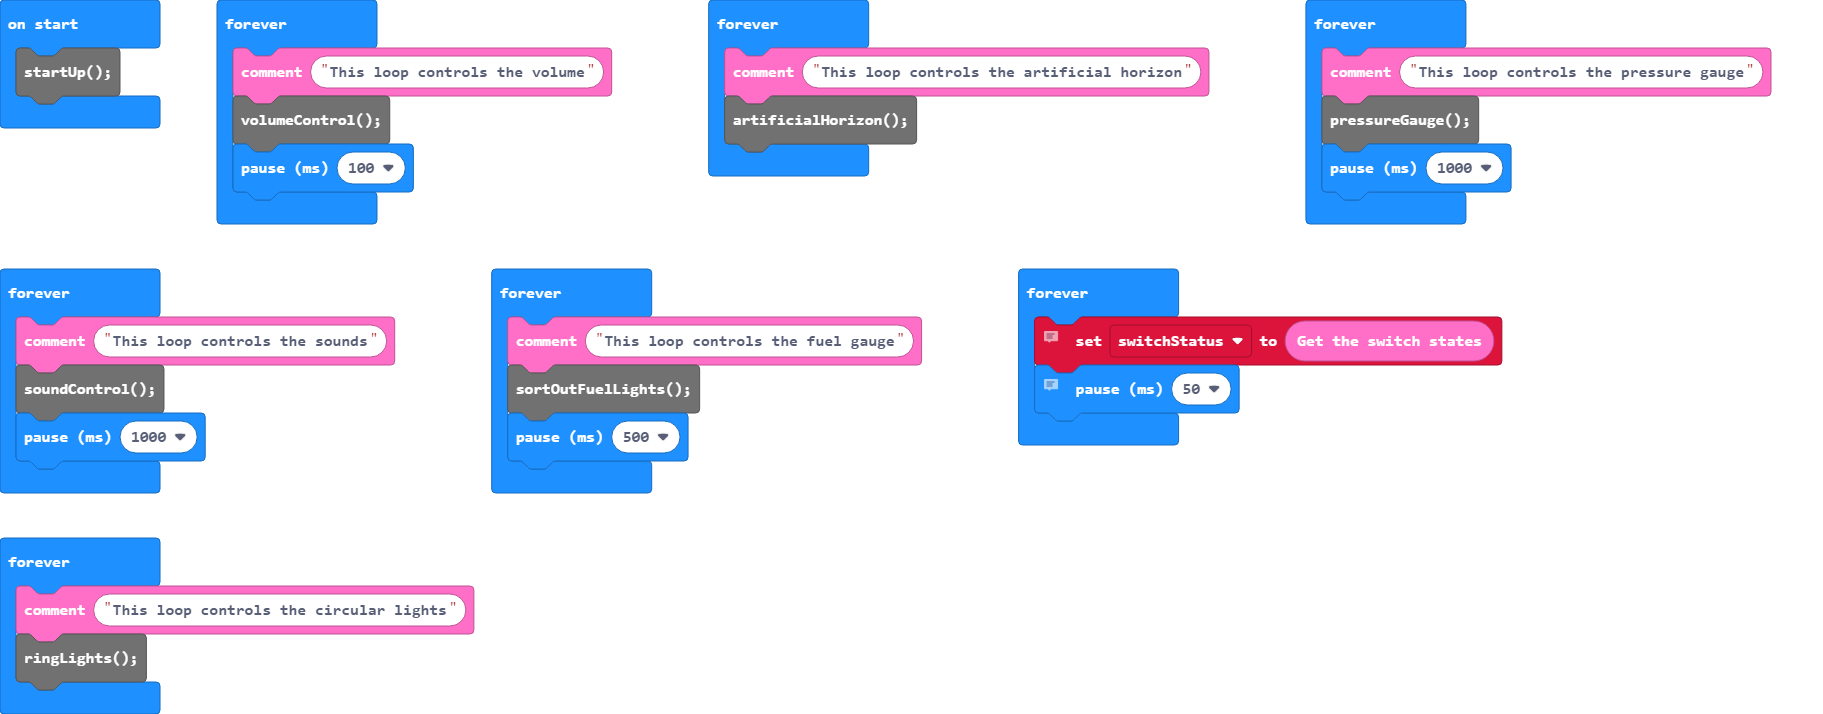
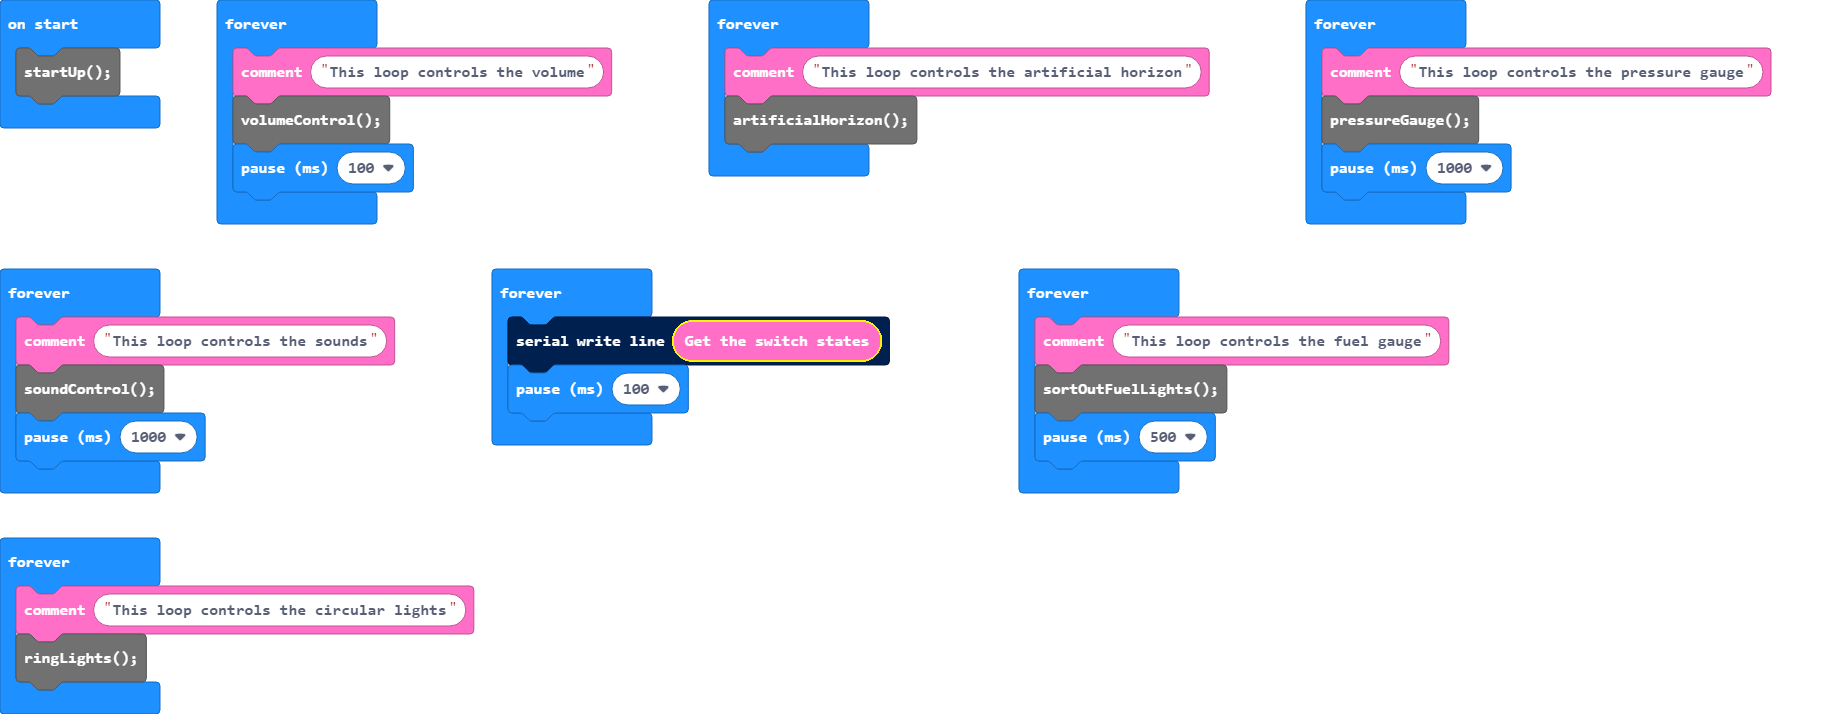
Update pxt.json, main.blocks, main.ts, ringLights.ts, sounds.ts, fuelLights-IOT.ts, buttons.ts, start.ts, soundtrack.md

Changed region(s): [[0.5529, 0.4006, 0.8294, 0.7087], [0.2457, 0.4006, 0.5222, 0.7087], [0.3993, 0.0308, 0.4301, 0.0616]]

diff --git a/ringLights.ts b/ringLights.ts
@@ -10,9 +10,7 @@ function ringLights() {
 
     if (strip == null) {
 
-        //serial.writeLine("ring light 1")
-
-        RainbowSparkleUnicorn.comment("Setup starting rainbow and green lights")
+        RainbowSparkleUnicorn.comment("Setup starting rainbow")
         strip = neopixel.create(DigitalPin.P1, 24, NeoPixelMode.RGB)
         alertStripRight = strip.range(0, 6)
         alertStripLeft = strip.range(12, 6)
@@ -20,74 +18,29 @@ function ringLights() {
 
         alertStripRight.showRainbow();
         alertStripLeft.showRainbow();
-
-        //serial.writeLine("ring light 2")
-
-        let time_now = control.millis()
-
-        while (control.millis() < time_now + 15 * 1000) {
-
-            //serial.writeLine("ring light 3")
-
-            alertStripLeft.rotate(-1);
-            alertStripRight.rotate(1);
-            strip.show();
-            basic.pause(250);
-        }
-
-        //serial.writeLine("ring light 4")
-
-        strip.showColor(neopixel.colors(NeoPixelColors.Green))
-
-        strip.show()
     }
 
-    RainbowSparkleUnicorn.comment("Need to check for a transition, so we can set up the lights")
+    alertStripLeft.rotate(1);
+    alertStripRight.rotate(1);
+    strip.show();
 
-    if (stateInCircularLightLoop != consoleState) {
-        circularLightLoopPauseMs = 10
-        if (consoleState == "Normal") {
-            strip.setBrightness(30)
-            strip.showColor(neopixel.colors(NeoPixelColors.Green))
-            strip.show()
-        } else if (consoleState == "VideoPlaying") {
-            strip.setBrightness(100)
-            strip.showColor(neopixel.colors(NeoPixelColors.Indigo))
-            strip.show()
-        } else if (consoleState == "YellowAlert") {
-            strip.showColor(neopixel.colors(NeoPixelColors.Black))
-            alertStripRight.setBrightness(100)
-            alertStripLeft.setBrightness(100)
-            alertStripRight.showColor(neopixel.colors(NeoPixelColors.Yellow))
-            alertStripLeft.showColor(neopixel.colors(NeoPixelColors.Yellow))
-        } else if (consoleState == "RedAlert") {
-            strip.showColor(neopixel.colors(NeoPixelColors.Black))
-            alertStripRight.setBrightness(255)
-            alertStripRight.showColor(neopixel.colors(NeoPixelColors.Red))
-            alertStripLeft.showColor(neopixel.colors(NeoPixelColors.Red))
-        }
-    } else {
-        if (stateInCircularLightLoop == "Starting") {
-            RainbowSparkleUnicorn.comment("Do nothing as green light setup in transition")
-        } else if (stateInCircularLightLoop == "Normal") {
-            RainbowSparkleUnicorn.comment("Do nothing as green light setup in transition")
-        } else if (stateInCircularLightLoop == "VideoPlaying") {
-            RainbowSparkleUnicorn.comment("Do nothing as video playing light setup in transition")
-        } else if (stateInCircularLightLoop == "YellowAlert") {
-            RainbowSparkleUnicorn.comment("Just spin the light and change loop speed by altering pause time")
-            strip.rotate(1)
-            strip.show()
-            circularLightLoopPauseMs = 50
-        } else if (stateInCircularLightLoop == "RedAlert") {
-            RainbowSparkleUnicorn.comment("Just spin the light and change loop speed by altering pause time")
-            strip.rotate(1)
-            strip.show()
-            circularLightLoopPauseMs = 20
-        }
-    }
-    RainbowSparkleUnicorn.comment("set the loop state to be the same as the console state as we have done the transition")
-    stateInCircularLightLoop = consoleState
-    RainbowSparkleUnicorn.comment("pause for how long...")
-    basic.pause(circularLightLoopPauseMs)
+    let shields = pins.analogReadPin(AnalogPin.P2);
+    //let sheildsMap = Math.round(Math.map(shields, 20, 985, 50, 1000));
 
+    //serial.writeValue("shields", shields);
+    //serial.writeValue("sheildsMap", sheildsMap);
+
+    basic.pause(shields);
+
+    //basic.pause(250);
+}
+
+function setColour(rgb: number) {
+
+    alertStripLeft.showColor(rgb)
+    alertStripRight.showColor(rgb)
+    alertStripLeft.setPixelColor(0, NeoPixelColors.Black)
+    alertStripRight.setPixelColor(0, NeoPixelColors.Black)
+    alertStripLeft.setPixelColor(1, NeoPixelColors.Black)
+    alertStripRight.setPixelColor(1, NeoPixelColors.Black)
 }

diff --git a/buttons.ts b/buttons.ts
@@ -1,48 +1,51 @@
 
-let switchStatus = ""
-let touchStatus = ""
-
-// RainbowSparkleUnicorn.IoT.sendMQTTMessage("spaceship-console/buttons", "Green Button")
-RainbowSparkleUnicorn.Switch.onSwitchPressed(switchPins.P10, function () {
-    basic.showNumber(10)
-})
-
-// RainbowSparkleUnicorn.IoT.sendMQTTMessage("spaceship-console/alert", "Red Alert")
-RainbowSparkleUnicorn.Switch.onSwitchPressed(switchPins.P1, function () {
-    consoleState = "RedAlert"
-    basic.showNumber(1)
-})
-
-// RainbowSparkleUnicorn.IoT.sendMQTTMessage("spaceship-console/buttons", "Blue Button")
-RainbowSparkleUnicorn.Switch.onSwitchPressed(switchPins.P11, function () {
-    basic.showNumber(11)
-})
-
-RainbowSparkleUnicorn.Switch.onSwitchPressed(switchPins.P13, function () {
-    basic.showNumber(13)
-    sortOutFuelLights()
-})
-
-// RainbowSparkleUnicorn.IoT.sendMQTTMessage("spaceship-console/alert", "Normal")
 RainbowSparkleUnicorn.Switch.onSwitchPressed(switchPins.P0, function () {
     RainbowSparkleUnicorn.comment("Press red spinner to warp back to green")
-    consoleState = "Normal"
-    basic.showNumber(0)
+    alertStripLeft.showRainbow()
+    alertStripRight.showRainbow()
+    RainbowSparkleUnicorn.Sound.playTrack(21)
 })
 
-RainbowSparkleUnicorn.Switch.onSwitchPressed(switchPins.P8, function () {
-    sortOutFuelLights()
+RainbowSparkleUnicorn.Switch.onSwitchPressed(switchPins.P1, function () {
+    consoleState = "RedAlert"
+    RainbowSparkleUnicorn.Sound.playTrack(99)
+    setColour(neopixel.colors(NeoPixelColors.Red));
+})
+
+RainbowSparkleUnicorn.Switch.onSwitchPressed(switchPins.P2, function () {
+        setColour(neopixel.colors(NeoPixelColors.Orange));
+        basic.showNumber(2)
 })
 
 
-// RainbowSparkleUnicorn.IoT.sendMQTTMessage("spaceship-console/alert", "Yellow Alert")
 RainbowSparkleUnicorn.Switch.onSwitchPressed(switchPins.P3, function () {
     RainbowSparkleUnicorn.comment("Press white spinner to warp back to yellow")
-    consoleState = "YellowAlert"
-    basic.showNumber(3)
 })
 
-// RainbowSparkleUnicorn.IoT.sendMQTTMessage("spaceship-console/buttons", "Red Button")
-RainbowSparkleUnicorn.Switch.onSwitchPressed(switchPins.P9, function () {
-    basic.showNumber(9)
+RainbowSparkleUnicorn.Switch.onSwitchPressed(switchPins.P10, function () {
+    RainbowSparkleUnicorn.Sound.playTrack(20)
+    setColour(neopixel.colors(NeoPixelColors.Green));
+    consoleState = "Normal"
 })
+
+
+
+RainbowSparkleUnicorn.Switch.onSwitchPressed(switchPins.P11, function () {
+    RainbowSparkleUnicorn.Sound.playTrack(21)
+    setColour(neopixel.colors(NeoPixelColors.Blue));
+})
+
+
+
+
+
+
+RainbowSparkleUnicorn.Switch.onSwitchPressed(switchPins.P9, function () {
+    RainbowSparkleUnicorn.Sound.playTrack(70)
+
+})
+
+
+// RainbowSparkleUnicorn.Switch.onSwitchPressed(switchPins.Any, function () {
+//     basic.showNumber(control.eventValue());
+// })

diff --git a/sounds.ts b/sounds.ts
@@ -1,48 +1,10 @@
 // Add your code here
 
-let stateInCircularSoundLoop = ""
-
 function soundControl() {
 
-    //serial.writeLine("stateInCircularSoundLoop:" + stateInCircularSoundLoop + " consoleState:" + consoleState)
-
-    if (stateInCircularSoundLoop != consoleState) {
-        if (consoleState == "Normal") {
-            RainbowSparkleUnicorn.Sound.playTrack(2)
-        } else if (consoleState == "VideoPlaying") {
-            RainbowSparkleUnicorn.Sound.pause()
-        } else if (consoleState == "YellowAlert") {
-            RainbowSparkleUnicorn.Sound.playTrack(3)
-        } else if (consoleState == "RedAlert") {
-            RainbowSparkleUnicorn.Sound.playTrack(4)
-        } else if (consoleState == "Starting") {
-            RainbowSparkleUnicorn.comment("Opening sequence sound")
-            RainbowSparkleUnicorn.Sound.playTrack(1)
-
-            while (true){
-                basic.pause(500);
-                if (RainbowSparkleUnicorn.Sound.playingSound() == false) {
-                    break;
-                }                
-            }
-        }
-    } else {
-        if (stateInCircularSoundLoop == "Starting") {
-            RainbowSparkleUnicorn.comment("Do nothing")
-        } else if (stateInCircularSoundLoop == "Normal") {
-            RainbowSparkleUnicorn.comment("Do nothing")
-        } else if (stateInCircularSoundLoop == "VideoPlaying") {
-            RainbowSparkleUnicorn.comment("Do nothing")
-        } else if (stateInCircularSoundLoop == "YellowAlert") {
-            RainbowSparkleUnicorn.comment("Do nothing")
-        } else if (stateInCircularSoundLoop == "RedAlert") {
-            RainbowSparkleUnicorn.comment("Check to see if the track is playing, once stopped then reduce to yellow alert")
-            if (RainbowSparkleUnicorn.Sound.playingSound() == false) {
-                consoleState = "YellowAlert"
-            }
-        }
+    if (RainbowSparkleUnicorn.Sound.playingSound() == false) {
+        RainbowSparkleUnicorn.Sound.playTrack(Math.randomRange(50, 52));
+        basic.pause(500);
     }
-    RainbowSparkleUnicorn.comment("set the loop state to be the same as the console state as we have done the transition")
-    stateInCircularSoundLoop = consoleState
-
 }
+

diff --git a/fuelLights-IOT.ts b/fuelLights-IOT.ts
@@ -2,37 +2,24 @@
 let IoTConnected = false
 
 function sortOutFuelLights() {
-    
-    if (IoTConnected == true) {
-        // basic.clearScreen()
-        RainbowSparkleUnicorn.Light.turnOff(lightPins.P13)
-        RainbowSparkleUnicorn.Light.turnOff(lightPins.P14)
-        if (RainbowSparkleUnicorn.Switch.getSwitchState(switchPins.P8) == "H") {
-            RainbowSparkleUnicorn.Light.turnOn(lightPins.P13)
-        }
-        if (RainbowSparkleUnicorn.Switch.getSwitchState(switchPins.P13) == "H") {
-            RainbowSparkleUnicorn.Light.turnOn(lightPins.P14)
-        }
-    } else {
 
-        // Pink Right Light
-        RainbowSparkleUnicorn.Light.turnOff(lightPins.P13)
-        RainbowSparkleUnicorn.Light.blink(lightPins.P13, 500, 500)
-        // Pink Left Light
-        RainbowSparkleUnicorn.Light.turnOff(lightPins.P14)
-        RainbowSparkleUnicorn.Light.blink(lightPins.P14, 500, 500)
-        // RainbowSparkleUnicorn.IoT.connectToInterWeb(
-        // "152 2.4GHz",
-        // "derwenthorpe",
-        // "robotmqtt",
-        // "public",
-        // "public",
-        // "Spaceship Console"
-        // )
-        // RainbowSparkleUnicorn.IoT.startReceivingMessages("spaceship-console/rx")
-        IoTConnected = true
-        RainbowSparkleUnicorn.Light.turnOff(lightPins.P13)
-        RainbowSparkleUnicorn.Light.turnOff(lightPins.P14)
-    }
+    // basic.clearScreen()
+    RainbowSparkleUnicorn.Light.turnOff(lightPins.P13)
+    RainbowSparkleUnicorn.Light.turnOff(lightPins.P14)
+
+    let switch8 = RainbowSparkleUnicorn.Switch.getSwitchState(switchPins.P7);
+    let switch13 = RainbowSparkleUnicorn.Switch.getSwitchState(switchPins.P12);
+
+    //serial.writeLine("8=" + switch8);
+   // serial.writeLine("13=" + switch13);
+
+    // if (RainbowSparkleUnicorn.Switch.getSwitchState(switchPins.P8) == "H") {
+    //     RainbowSparkleUnicorn.Light.turnOn(lightPins.P13)
+    // }
+
+    // if (RainbowSparkleUnicorn.Switch.getSwitchState(switchPins.P13) == "H") {
+    //     RainbowSparkleUnicorn.Light.turnOn(lightPins.P14)
+    // }
+
 }
 

diff --git a/main.ts b/main.ts
@@ -1,10 +1,9 @@
-
 startUp();
 
 basic.forever(function () {
     RainbowSparkleUnicorn.comment("This loop controls the volume")
     volumeControl();
-    basic.pause(100)
+    basic.pause(250)
 })
 basic.forever(function () {
     RainbowSparkleUnicorn.comment("This loop controls the artificial horizon")
@@ -21,14 +20,13 @@ basic.forever(function () {
     basic.pause(1000)
 })
 basic.forever(function () {
+    RainbowSparkleUnicorn.Switch.getSwitchStates()
+    basic.pause(100)
+})
+basic.forever(function () {
     RainbowSparkleUnicorn.comment("This loop controls the fuel gauge")
     sortOutFuelLights();
     basic.pause(500)
-})
-basic.forever(function () {    
-    switchStatus = RainbowSparkleUnicorn.Switch.getSwitchStates()
-    //serial.writeLine("SS:" + switchStatus);
-    basic.pause(1000); 
 })
 basic.forever(function () {
     RainbowSparkleUnicorn.comment("This loop controls the circular lights")

diff --git a/start.ts b/start.ts
@@ -23,9 +23,13 @@ function startUp() {
 
     RainbowSparkleUnicorn.comment("the runInParallel command allows us to delay switching the console state to Normal and letting the multiple loops work")
     control.runInParallel(function () {
-        basic.pause(5000)
 
         basic.showNumber(3)
+
+        RainbowSparkleUnicorn.comment("Opening sequence sound")
+        RainbowSparkleUnicorn.Sound.playTrack(Math.randomRange(1,2))
+
+        basic.showNumber(4)
 
         consoleState = "Normal"
         basic.showIcon(IconNames.Yes)

diff --git a/soundtrack.md b/soundtrack.md
@@ -1,0 +1,22 @@
+# soundtrack
+
+01/001 - Millenium falcon takeoff
+02/001 - Elite Dangerous jump to light speed
+
+10/001 - long range scan planet complete
+
+20/001 - hailing frequencies open
+21/001 - tricorder alert
+22/001 - hailing alert
+23/001 - damage alarm
+24/001 - ops beep sequence
+
+50/001 - bridge sounds
+51/002 - bridge sounds
+52/003 - bridge sounds
+
+60/001 - bridge sounds (full 8 hours)
+
+70/001 - photon torpedo fire
+
+99/001 - ALIEN - Nostromo destruct sequence
